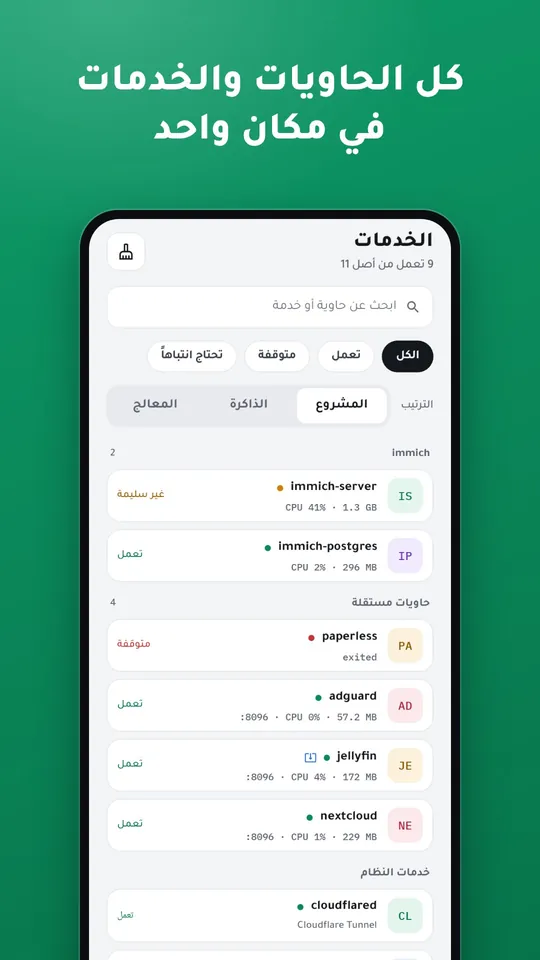
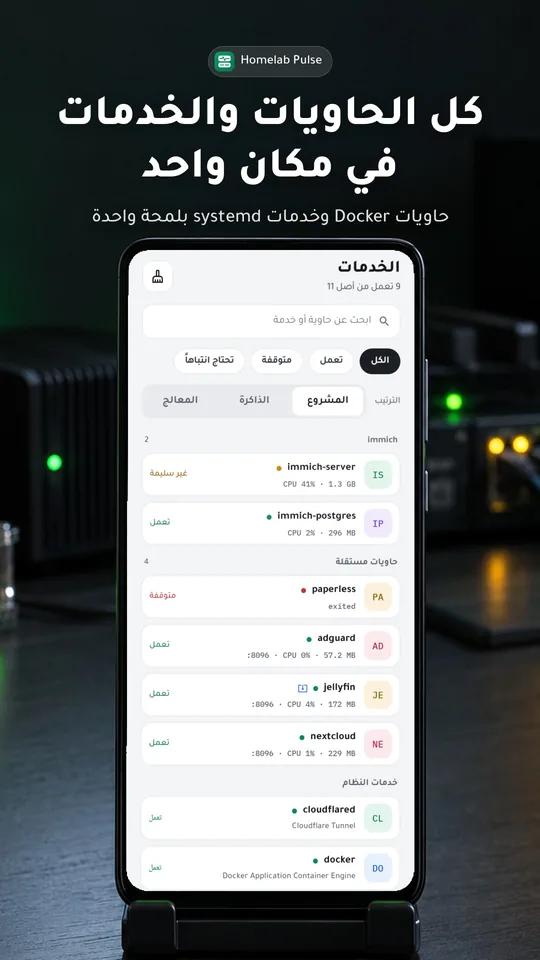
Publish site from homelab-pulse@a3ca72a

diff --git a/ar/index.html b/ar/index.html
@@ -29,10 +29,7 @@
       <p class="tagline"><span dir="ltr" class="nw">Homelab Pulse</span> تطبيق أندرويد يراقب سيرفرك المنزلي ويديره عبر وكيل صغير تثبّته عليه: حالته فوراً، وتنبيهات قبل وقوع المشكلة، وإصلاح آمن من أي مكان.</p>
       <div class="cta-row"><a class="btn primary" href="guides/install-agent/">ابدأ الإعداد</a><a class="btn ghost" href="#features">شاهد المزايا</a></div>
     </div>
-    <div class="phones">
-      <figure class="back"><img src="../assets/hero/ar-container.webp" alt="تفاصيل حاوية مع الموارد والسجلات" width="600" height="1300" decoding="async"></figure>
-      <figure class="front"><img src="../assets/hero/ar-dashboard.webp" alt="لوحة التطبيق: المعالج والذاكرة والحرارة والتخزين والشبكة" width="600" height="1300" decoding="async"></figure>
-    </div>
+    <figure class="hero-shot"><img src="../assets/hero/ar.webp" alt="لوحة التطبيق على هاتف مستند إلى حجر: المعالج والذاكرة والحرارة والتخزين والشبكة" width="600" height="800" decoding="async" fetchpriority="high"></figure>
   </section>
   <section class="section" id="features" aria-labelledby="features-title">
     <h2 id="features-title">كل ما يحتاجه سيرفرك المنزلي</h2>

diff --git a/assets/site.css b/assets/site.css
@@ -148,12 +148,8 @@ html[lang="ar"] .hero2 h1 { line-height: 1.3; }
 @media (prefers-color-scheme: dark) { .btn.primary { color: #062a1d; } }
 .btn.ghost { border: 1px solid var(--border); color: var(--text); background: var(--surface); }
 .btn:hover { filter: brightness(1.06); }
-.phones { position: relative; height: clamp(420px, 70vw, 600px); }
-.phones figure { position: absolute; margin: 0; width: clamp(200px, 36vw, 280px); border-radius: 34px; padding: 9px; background: #0b0d10; box-shadow: 0 30px 70px rgba(15, 17, 20, .28), 0 0 0 1px rgba(255, 255, 255, .12); }
-.phones img { display: block; width: 100%; height: auto; border-radius: 26px; }
-.phones .front { inset-inline-start: 6%; top: 0; z-index: 2; }
-.phones .back { inset-inline-end: 4%; top: 64px; transform: rotate(4deg); opacity: .96; }
-html[dir="rtl"] .phones .back { transform: rotate(-4deg); }
+.hero-shot { margin: 0; justify-self: center; width: min(100%, 440px); }
+.hero-shot img { display: block; width: 100%; height: auto; border-radius: 28px; box-shadow: 0 30px 70px rgba(15, 17, 20, .28), 0 0 0 1px rgba(255, 255, 255, .08); }
 .section { padding-block: 56px 8px; }
 .section > h2 { font-size: clamp(24px, 4vw, 34px); margin: 0 0 8px; text-align: center; }
 .section > .sub { color: var(--text-2); text-align: center; margin: 0 auto 28px; max-width: 40em; }

diff --git a/index.html b/index.html
@@ -29,10 +29,7 @@
       <p class="tagline">Homelab Pulse is an Android app that monitors and manages your home server through a tiny agent you install on it: live health, alerts before things break, and safe control from anywhere.</p>
       <div class="cta-row"><a class="btn primary" href="guides/install-agent/">Get started</a><a class="btn ghost" href="#features">See the features</a></div>
     </div>
-    <div class="phones">
-      <figure class="back"><img src="assets/hero/en-container.webp" alt="A container's details with resources and logs" width="600" height="1300" decoding="async"></figure>
-      <figure class="front"><img src="assets/hero/en-dashboard.webp" alt="The dashboard: CPU, memory, temperature, storage and network" width="600" height="1300" decoding="async"></figure>
-    </div>
+    <figure class="hero-shot"><img src="assets/hero/en.webp" alt="The app's dashboard on a phone resting on stone: CPU, memory, temperature, storage and network" width="600" height="800" decoding="async" fetchpriority="high"></figure>
   </section>
   <section class="section" id="features" aria-labelledby="features-title">
     <h2 id="features-title">Everything your home server needs</h2>
